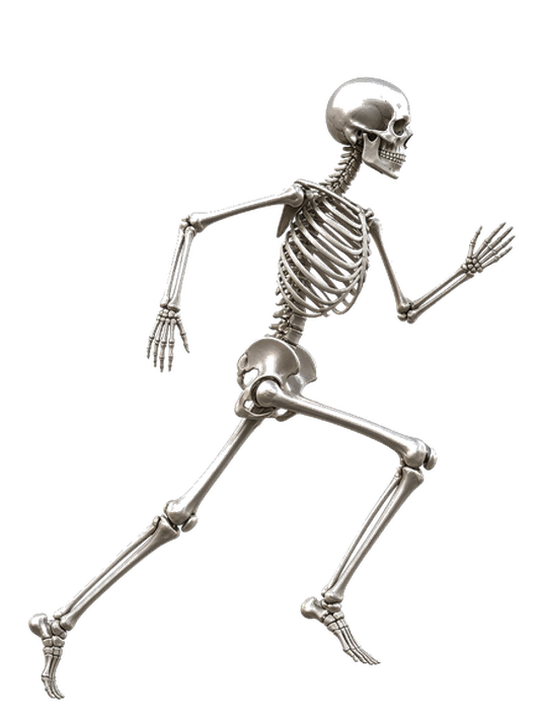
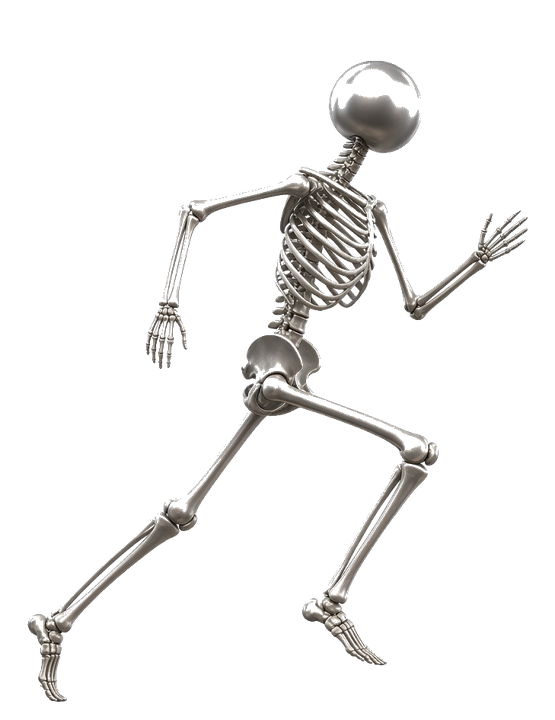
32.337: Use a full sphere skull so the runner head is not a cropped profile.
The mockup head is a complete ball. The anatomical side skull was reading as a chopped cranium.

Changed region(s): [[0.0312, 0.0611, 0.9688, 0.9778]]

diff --git a/frontend/public/index.html b/frontend/public/index.html
@@ -1,15 +1,15 @@
 <!DOCTYPE html>
 <html lang="en">
   <head>
-    <link rel="stylesheet" href="%PUBLIC_URL%/clinic_touch.css?v=32.336" />
-    <link rel="stylesheet" href="%PUBLIC_URL%/liquid_glass.css?v=32.336" />
+    <link rel="stylesheet" href="%PUBLIC_URL%/clinic_touch.css?v=32.337" />
+    <link rel="stylesheet" href="%PUBLIC_URL%/liquid_glass.css?v=32.337" />
     <meta charset="utf-8" />
     <link rel="icon" href="%PUBLIC_URL%/favicon.ico?v=32.86" sizes="any" />
     <link rel="icon" href="%PUBLIC_URL%/logo192.png?v=32.86" type="image/png" sizes="192x192" />
     <link rel="icon" href="%PUBLIC_URL%/favicon-32.png?v=32.86" type="image/png" sizes="32x32" />
     <meta name="viewport" content="width=device-width, initial-scale=1, viewport-fit=cover" />
     <meta http-equiv="Cache-Control" content="no-cache, no-store, must-revalidate" />
-    <meta name="nl-version" content="32.336" />
+    <meta name="nl-version" content="32.337" />
     <meta name="theme-color" content="#121820" media="(prefers-color-scheme: dark)" />
     <meta name="theme-color" content="#121820" />
     <style>html,body{margin:0;padding:0;background:#121820;color:#fff;color-scheme:dark;font-family:Inter,system-ui,sans-serif}#root{min-height:100vh}</style>
@@ -76,10 +76,10 @@
   <body>
     <noscript>You need to enable JavaScript to run this app.</noscript>
     <div id="root"><p style="padding:2rem;text-align:center;color:#fff9">Loading NeuroLab…</p></div>
-    <script src="%PUBLIC_URL%/pwa_ipad_sync.js?v=32.336"></script>
+    <script src="%PUBLIC_URL%/pwa_ipad_sync.js?v=32.337"></script>
     <script>
       (function () {
-        var href = "%PUBLIC_URL%/liquid_glass.css?v=32.336";
+        var href = "%PUBLIC_URL%/liquid_glass.css?v=32.337";
         function pin() {
           var el = document.getElementById("nl-liquid-glass-link");
           if (!el) {
@@ -130,8 +130,6 @@
           if (cap.querySelector(".kin-run")) return;
           var html = '<div class="kin-run__stage">'
             + '<span class="kin-run__figure" style="background-image:url(\'./static/kin-run/pose-a.png\')"></span>'
-            + '<span class="kin-run__figure" style="background-image:url(\'./static/kin-run/pose-b.png\')"></span>'
-            + '<span class="kin-run__figure" style="background-image:url(\'./static/kin-run/pose-c.png\')"></span>'
             + '<span class="kin-run__ground"></span></div><div class="kin-run__pips">';
           for (var d = 0; d < 11; d += 1) html += '<span class="kin-run__pip"></span>';
           html += '</div>';

diff --git a/frontend/public/liquid_glass.css b/frontend/public/liquid_glass.css
@@ -232,7 +232,7 @@ html.nl-overlay-expanded.nl-touch .content-shell .glass-float:not(.validation-pl
   bottom: 24px;
   width: 176px;
   height: 168px;
-  opacity: 0;
+  opacity: 1;
   pointer-events: none;
   -webkit-touch-callout: none;
   -webkit-user-select: none;
@@ -241,13 +241,8 @@ html.nl-overlay-expanded.nl-touch .content-shell .glass-float:not(.validation-pl
   background-position: center bottom;
   background-size: contain;
   transform: translateX(-50%);
-  animation:
-    kin-run-pose 0.66s steps(1) infinite,
-    kin-run-stride 0.66s cubic-bezier(0.22, 1, 0.36, 1) infinite;
+  animation: kin-run-stride 0.66s cubic-bezier(0.22, 1, 0.36, 1) infinite;
 }
-.kin-run__figure:nth-of-type(1) { animation-delay: 0s; }
-.kin-run__figure:nth-of-type(2) { animation-delay: -0.44s; }
-.kin-run__figure:nth-of-type(3) { animation-delay: -0.22s; }
 .kin-run__ground {
   position: absolute;
   left: 16%;

diff --git a/frontend/src/index.css b/frontend/src/index.css
@@ -696,7 +696,7 @@ html.nl-overlay-expanded .content-shell .glass-float.nl-overlay-escape:not(.sect
   bottom: 24px;
   width: 176px;
   height: 168px;
-  opacity: 0;
+  opacity: 1;
   pointer-events: none;
   -webkit-touch-callout: none;
   -webkit-user-select: none;
@@ -705,14 +705,8 @@ html.nl-overlay-expanded .content-shell .glass-float.nl-overlay-escape:not(.sect
   background-position: center bottom;
   background-size: contain;
   transform: translateX(-50%);
-  animation:
-    kin-run-pose 0.66s steps(1) infinite,
-    kin-run-stride 0.66s cubic-bezier(0.22, 1, 0.36, 1) infinite;
+  animation: kin-run-stride 0.66s cubic-bezier(0.22, 1, 0.36, 1) infinite;
 }
-
-.kin-run__figure:nth-of-type(1) { animation-delay: 0s; }
-.kin-run__figure:nth-of-type(2) { animation-delay: -0.44s; }
-.kin-run__figure:nth-of-type(3) { animation-delay: -0.22s; }
 
 .kin-run__ground {
   position: absolute;

diff --git a/frontend/src/App.js b/frontend/src/App.js
@@ -3525,22 +3525,14 @@ function kinAnalyzeStageIndex(step, pct) {
   return 0;
 }
 
-const KIN_RUN_FRAMES = ["a", "b", "c"].map(
-  (id) => `${process.env.PUBLIC_URL || ""}/static/kin-run/pose-${id}.png`,
-);
+const KIN_RUN_SRC = `${process.env.PUBLIC_URL || ""}/static/kin-run/pose-a.png`;
 
 function KinRunMark() {
   const pips = Array.from({ length: 11 });
   return (
     <div className="kin-run" aria-hidden>
       <div className="kin-run__stage">
-        {KIN_RUN_FRAMES.map((src) => (
-          <span
-            key={src}
-            className="kin-run__figure"
-            style={{ backgroundImage: `url("${src}")` }}
-          />
-        ))}
+        <span className="kin-run__figure" style={{ backgroundImage: `url("${KIN_RUN_SRC}")` }} />
         <span className="kin-run__ground" />
       </div>
       <div className="kin-run__pips">

diff --git a/frontend/src/labScrollGlass.test.js b/frontend/src/labScrollGlass.test.js
@@ -47,8 +47,8 @@ test("analysis stage capsule is muted glass and keeps the film-strip motion", ()
   expect(app).toMatch(/function KinAnalyzeStageCapsule/);
   expect(app).toMatch(/function KinRunMark/);
   expect(app).toMatch(/<KinRunMark \/>/);
-  expect(app).toMatch(/static\/kin-run\/pose-\$\{id\}\.png/);
-  expect(app).toMatch(/backgroundImage: `url\("\$\{src\}"\)`/);
+  expect(app).toMatch(/static\/kin-run\/pose-a\.png/);
+  expect(app).toMatch(/backgroundImage: `url\("\$\{KIN_RUN_SRC\}"\)`/);
   expect(app).not.toMatch(/<img key=\{src\} className="kin-run__figure"/);
   expect(app).toMatch(/kin-analyze-stage__stepper/);
   expect(app).toMatch(/kinAnalyzeStageIndex\(step, pctRounded\)/);
